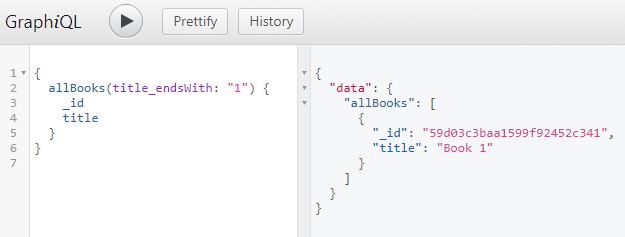
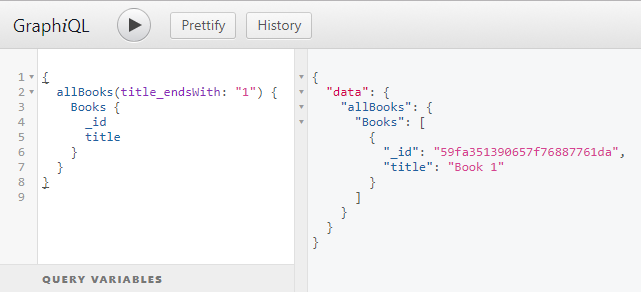
docs updates started

diff --git a/README.md b/README.md
@@ -21,16 +21,18 @@ For any type which is contained in a Mongo collection—ie has a `table` propert
 **projectSetupA.js**
 ```javascript
 import { dataTypes } from "mongo-graphql-starter";
-const { 
-  MongoIdType, 
-  StringType, 
-  IntType, 
-  FloatType, 
-  DateType, 
-  arrayOf, 
-  objectOf, 
-  formattedDate, 
-  typeLiteral 
+const {
+  MongoIdType,
+  StringType,
+  StringArrayType,
+  IntType,
+  IntArrayType,
+  FloatType,
+  DateType,
+  arrayOf,
+  objectOf,
+  formattedDate,
+  typeLiteral
 } = dataTypes;
 
 const Author = {
@@ -47,6 +49,8 @@ const Book = {
     title: StringType,
     pages: IntType,
     weight: FloatType,
+    keywords: StringArrayType,
+    editions: IntArrayType,
     authors: arrayOf(Author),
     primaryAuthor: objectOf(Author),
     strArrs: typeLiteral("[[String]]"),
@@ -125,16 +129,18 @@ Here are the valid types you can import from `mongo-graphql-starter`
 
 ```javascript
 import { dataTypes } from "mongo-graphql-starter";
-const { 
-  MongoIdType, 
-  StringType, 
-  IntType, 
-  FloatType, 
-  DateType, 
-  arrayOf, 
-  objectOf, 
-  formattedDate, 
-  typeLiteral 
+const {
+  MongoIdType,
+  StringType,
+  StringArrayType,
+  IntType,
+  IntArrayType,
+  FloatType,
+  DateType,
+  arrayOf,
+  objectOf,
+  formattedDate,
+  typeLiteral
 } = dataTypes;
 ```
 
@@ -142,7 +148,9 @@ Type|Description
 ----|-----------
 `MongoId`|Will create your field as a string, and will return whatever Mongo uid that was created.  Any filters using this id will wrap the string in Mongo's `ObjectId` function.
 `String`|Self explanatory
+`StringArrayType`|An array of strings
 `Int`|Self explanatory
+`IntArrayType`|An array of integers
 `Float`|Self explanatory
 `Date`|Will create your field as a string, but any filters against this field will convert the string arguments you send into a proper date object, before passing to Mongo.  Moreoever, querying this date will by default format it as `MM/DD/YYYY`.  To override this, use `formattedDate`. 
 `formattedDate`|Function: Pass it an object with a format property to create a date field with that (Mongo) format.  For example, `createdOnYearOnly: formattedDate({ format: "%Y" })`
@@ -199,27 +207,21 @@ test("Circular dependencies work", async () => {
   let tag = await runMutation({ 
     schema, 
     db, 
-    mutation: `createTag(Tag: {tagName: "JavaScript"}){_id}`, 
+    mutation: `createTag(Tag: {tagName: "JavaScript"}){Tag{_id}}`, 
     result: "createTag" 
   });
-  let author = await runMutation({ schema, db, result: "createAuthor"
-    mutation: `createAuthor(Author: { 
-      name: "Adam", 
-      tags: [{_id: "${tag._id}", tagName: "${tag.tagName}"}]
-    }){_id, name}`,
+  let author = await runMutation({
+    mutation: `createAuthor(Author: { name: "Adam", tags: [{_id: "${tag._id}", tagName: "${tag.tagName}"}]}){Author{_id, name}}`,
+    result: "createAuthor"
   });
 
-  await runMutation({ schema, db, result: "updateTag"
-    mutation: `updateTag(_id: "${tag._id}", 
-      Tag: { 
-        authors: [{_id: "${author._id}", name: "${author.name}"}]
-      }){_id}`,
+  await runMutation({
+    mutation: `updateTag(_id: "${tag._id}", Tag: { authors: [{_id: "${author._id}", name: "${author.name}"}]}){Tag{_id}}`,
+    result: "updateTag"
   });
 
   await queryAndMatchArray({
-    schema,
-    db,
-    query: `{getTag(_id: "${tag._id}"){tagName, authors{ _id, name }}}`,
+    query: `{getTag(_id: "${tag._id}"){Tag{tagName, authors{ _id, name }}}}`,
     coll: "getTag",
     results: { tagName: "JavaScript", authors: [{ _id: author._id, name: "Adam" }] }
   });
@@ -228,13 +230,33 @@ test("Circular dependencies work", async () => {
 
 ## Queries created
 
-For each queryable type, there will be a `get<Type>` query which receives an `_id` argument, and returns the single, matching object; as well as an `all<Type>s` query which receives filters for each field, described below, and returns an array of matching results.
+For each queryable type, there will be a `get<Type>` query which receives an `_id` argument, and returns the single, matching object keyed under `<Type>`. 
+
+For example
+
+```javascript
+{getBook(_id: "59e3dbdf94dc6983d41deece"){Book{createdOn}}}
+```
+
+Will retrieve that book, bringing back only the createdOn field.
+
+---
+
+There is also an `all<Type>s` query which receives filters for each field, described below, and returns an array of matching results under `<Type>s`, as well as a Meta object which has a count property, and if specified, will retrieve the record count for the entire query, beyond just the current page.
+
+For example
+
+```javascript
+{allBooks(SORT: {title: 1}, PAGE: 1, PAGE_SIZE: 5){Books{title}, Meta{count}}}
+```
+
+Will retrieve the first page of books' titles, as well as the `count` of all books matching whatever filters were specified in the query (in this case there were none).
 
 ## All filters available
 
 This section describes the filters available in the `all<Type>s` query for each queryable type.
 
-string, int, float, MongoId and date fields will all have the following filters created
+string, stringArray, int, intArray, float, MongoId and date fields will all have the following filters created
 
 Exact match
 
@@ -242,9 +264,9 @@ Exact match
 
 In match
 
-`field_in: [<value1>, <value2>]` - will match results which match any of those exact values
+`field_in: [<value1>, <value2>]` - will match results which match any of those exact values.  
 
-Note, for Date fields, the strings you send over will be converted to Date objects before being passed to Mongo.  Similarly, for MongoIds, the Mongo `ObjectId` method will be applied, before running the filter.
+Note, for Date fields, the strings you send over will be converted to Date objects before being passed to Mongo.  Similarly, for MongoIds, the Mongo `ObjectId` method will be applied, before running the filter.  For string and int arrays, the value will be an entire array, which will be matched by Mongo item by item.
 
 ### String filters
 
@@ -256,6 +278,14 @@ String contains|`title_contains: "My"` - will match results with the string `My`
 String starts with|`title_startsWith: "My"` - will match results that start with the string `My`, case insensitively. 
 String ends with|`title_endsWith: "title"` - will match results that end with the string `title`, case insensitively. 
 
+### String array filters
+
+If your field is named `keywords` then the following filters will be available
+
+Filter|Description
+------|-----------
+String array contains|`keywords_contains: "JavaScript"` - will match results with an array containing the string `JavaScript`. 
+
 ### Int filters
 
 If your field is named `pages` then the following filters will be available
@@ -266,6 +296,14 @@ Less than|`pages_lt: 200` - will match results where `pages` is less than 200
 Less than or equal|`pages_lte: 200` - will match results where `pages` is less than or equal to 200 
 Greater than|`pages_gt: 200` - will match results where `pages` is greater than 200 
 Greater than or equal|`pages_gte: 200` - will match results where `pages` is greater than or equal to 200 
+
+### Int array filters
+
+If your field is named `editions` then the following filters will be available
+
+Filter|Description
+------|-----------
+Int array contains|`editions_contains: 2` - will match results with an array containing the value `2`. 
 
 ### Float filters
 
@@ -311,11 +349,13 @@ Combining filters with Mongo's `$or` is easy.  Just use the same API, but with `
       {title: "Book 1", pages: 100}, 
       {title_contains: "ook", OR: [{weight_gt: 2}, {pages_lt: 0}]}
     ]
-  ) {
-    _id
-    title
-    pages
-    weight
+  ) { 
+    Book {
+      _id
+      title
+      pages
+      weight
+    }
   }
 }
 ```
@@ -352,7 +392,7 @@ For example
     } 
   }, 
   SORT: {title: 1}
-){ title }}
+){ Blogs{ title }}}
 ```
 
 Will query blogs that have at least one comment which has 4 upvotes, and also has an author with either a name of "CA 3", or a favoriteTag with a name of "T1"
@@ -369,7 +409,7 @@ Or you could do
     ]
   }, 
   SORT: {title: 1}
-){ title }}
+){ Blogs{ title }}}
 ```
 
 which is identical.
@@ -502,14 +542,14 @@ test("Deep querying 4", async () => {
             tagsSubscribed: [{name: "t1"}, {name: "t2"}]
           } 
         }]
-      ){_id}`,
+      ){Blog{_id}}`,
     result: "createBlog"
   });
 
   await queryAndMatchArray({
     schema,
     db,
-    query: `{getBlog(_id: "${obj._id}"){
+    query: `{getBlog(_id: "${obj._id}"){Blog{
       title, 
       content, 
       author{
@@ -531,7 +571,7 @@ test("Deep querying 4", async () => {
           }
         }
       }
-    }}`,
+    }}}`,
     coll: "getBlog",
     results: {
       title: "Blog 1",
